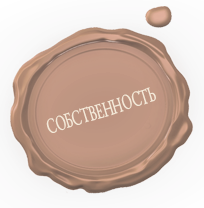
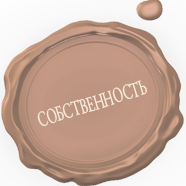
уцу

diff --git a/css/general.css b/css/general.css
@@ -269,8 +269,36 @@ section {box-shadow: 0px 0px 60px 15px rgba(49, 58, 77, 1) inset; }
     background-image: url("../images/title-shadow.png");
     background-position: 50% 100%;
     background-repeat: no-repeat;
-            background-size: 100% auto;
+            background-size: 100% 100%;
 }
+
+.fp-tableCell:before {
+  content: "";
+  display: block;
+  width: 250px;
+  height: 125px; 
+  background-image: url("../images/addInfo.png");
+  background-repeat: no-repeat;
+  position: absolute;
+  top: 145px; left: 25px;
+  -webkit-background-size: 100% 100%;
+       -o-background-size: 100% 100%;
+          background-size: 100% 100%;
+}
+.fp-tableCell:after {
+  content: "";
+  display: block;
+  width: 185px;
+  height: 185px; 
+  background-image: url("../images/property.png");
+  background-repeat: no-repeat;
+  position: absolute;
+  top: 140px; right: 65px;
+  -webkit-background-size: 100% 100%;
+       -o-background-size: 100% 100%;
+          background-size: 100% 100%;
+}
+
 
 @media (max-width: 1500px) {
   .section_title {

diff --git a/index.html b/index.html
@@ -59,6 +59,7 @@
                     </div>
                 </div>
                 <a href="#" class="scroll_down"></a>  
+
             </section>
 
             <section>
